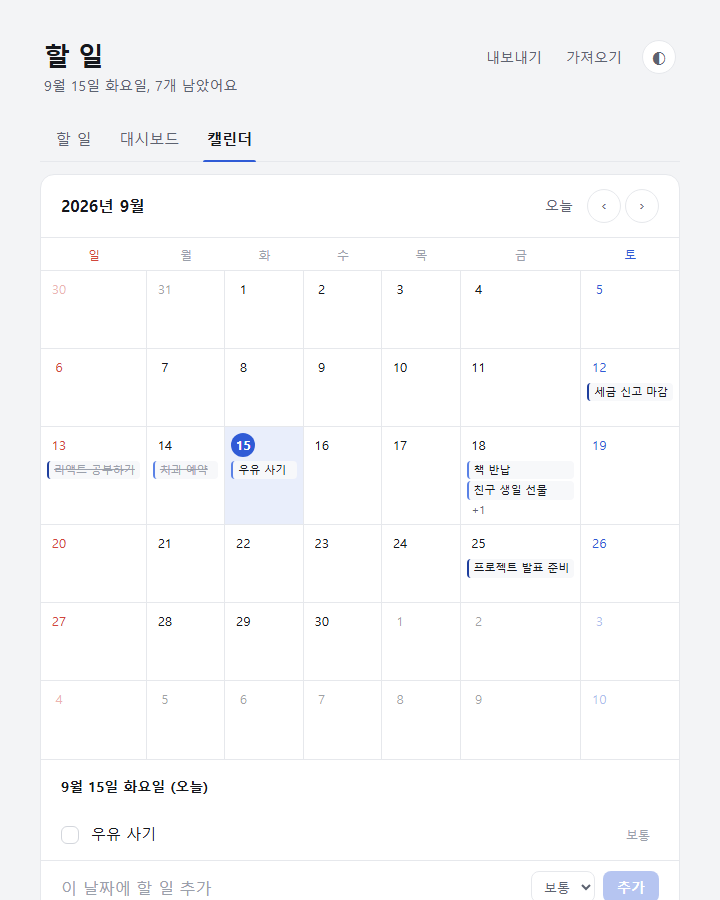
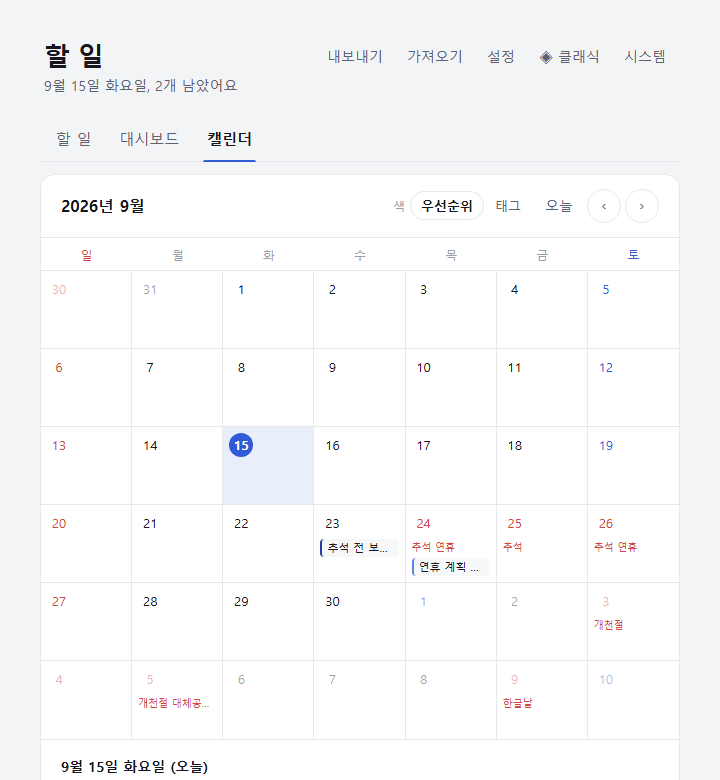
Mark Korean public holidays in the calendar
Fixed-date holidays and substitute holidays are computed; only the lunar
anchors (설날, 추석, 부처님오신날) are tabulated, for 2025-2030, since those
are the part a rule can't derive. Dates were checked against published
sources rather than recalled.

Rules encoded: 설날/추석 연휴 get a substitute only when they overlap a
Sunday; the other eligible holidays when they fall on a weekend or collide
with another holiday. 신정 and 현충일 are not national days, so they get no
substitute. 제헌절 became a public holiday again in 2026. Collisions join
their names (2028-10-03 is 추석·개천절, pushing 개천절 to 10/5).

Substitutes are placed only after every original holiday is known, in date
order, or they land on each other. Tests compare whole years (2025, 2026,
2028) against the published calendars.

Also: the add-form placeholder no longer overflows its box — it is short now,
and the #tag hint moved to the title attribute.

diff --git a/src/lib/holidays.js b/src/lib/holidays.js
@@ -1,0 +1,114 @@
+import { dayKey, addDays } from './stats';
+
+// 한국 공휴일(관공서의 공휴일에 관한 규정 기준).
+// 양력 고정일은 계산하고, 음력 기반(설날·추석·부처님오신날)만 표로 둔다.
+// 대체공휴일은 표로 박지 않고 규칙으로 계산한다 — 연도별로 적어 두면 틀리기 쉽다.
+// 임시공휴일·선거일처럼 그때그때 정해지는 날은 담지 않는다.
+
+// 음력 기반 공휴일의 양력 '당일' (2026-09-15 확인)
+const LUNAR = {
+    2025: { seollal: '2025-01-29', chuseok: '2025-10-06', buddha: '2025-05-05' },
+    2026: { seollal: '2026-02-17', chuseok: '2026-09-25', buddha: '2026-05-24' },
+    2027: { seollal: '2027-02-07', chuseok: '2027-09-15', buddha: '2027-05-13' },
+    2028: { seollal: '2028-01-27', chuseok: '2028-10-03', buddha: '2028-05-02' },
+    2029: { seollal: '2029-02-13', chuseok: '2029-09-22', buddha: '2029-05-20' },
+    2030: { seollal: '2030-02-03', chuseok: '2030-09-12', buddha: '2030-05-09' },
+};
+
+export const LUNAR_YEARS = Object.keys(LUNAR).map(Number);
+
+// 양력 고정 공휴일. sub = 대체공휴일 대상인가.
+// 신정·현충일은 국경일이 아니라 대체공휴일 대상이 아니다.
+const FIXED = [
+    { md: '01-01', name: '신정', sub: false },
+    { md: '03-01', name: '삼일절', sub: true },
+    { md: '05-05', name: '어린이날', sub: true },
+    { md: '06-06', name: '현충일', sub: false },
+    { md: '07-17', name: '제헌절', sub: true, from: 2026 }, // 2026년 공휴일로 재지정
+    { md: '08-15', name: '광복절', sub: true },
+    { md: '10-03', name: '개천절', sub: true },
+    { md: '10-09', name: '한글날', sub: true },
+    { md: '12-25', name: '성탄절', sub: true },
+];
+
+function dowOf(key) {
+    const [y, m, d] = key.split('-').map(Number);
+    return new Date(y, m - 1, d).getDay();
+}
+const isWeekend = (key) => dowOf(key) === 0 || dowOf(key) === 6;
+
+// 대체공휴일 자리: 그 날 다음의 첫 번째 '평일이면서 아직 공휴일이 아닌' 날
+function nextOpenDay(key, taken) {
+    let d = addDays(key, 1);
+    while (isWeekend(d) || taken.has(d)) d = addDays(d, 1);
+    return d;
+}
+
+// 그 해의 공휴일 전부를 { 'YYYY-MM-DD': 이름 } 으로.
+// 한 날에 둘이 겹치면 이름을 '·' 로 잇는다 (예: 추석·개천절).
+// 표에 없는 연도는 양력 고정일만 나온다.
+export function holidaysFor(year) {
+    const entries = [];
+    const blocks = []; // 설날·추석 연휴 — 일요일과 겹칠 때만 대체공휴일
+    const lunar = LUNAR[year];
+
+    if (lunar) {
+        for (const [day, label] of [[lunar.seollal, '설날'], [lunar.chuseok, '추석']]) {
+            const days = [addDays(day, -1), day, addDays(day, 1)];
+            entries.push({ key: days[0], name: `${label} 연휴`, sub: false });
+            entries.push({ key: days[1], name: label, sub: false });
+            entries.push({ key: days[2], name: `${label} 연휴`, sub: false });
+            blocks.push({ label, days });
+        }
+        entries.push({ key: lunar.buddha, name: '부처님오신날', sub: true });
+    }
+    for (const f of FIXED) {
+        if (f.from && year < f.from) continue;
+        entries.push({ key: `${year}-${f.md}`, name: f.name, sub: f.sub });
+    }
+
+    const byDay = new Map();
+    for (const e of entries) {
+        if (!byDay.has(e.key)) byDay.set(e.key, []);
+        byDay.get(e.key).push(e);
+    }
+
+    // 밀려날 공휴일 모으기 (아직 날짜는 정하지 않는다)
+    const pushed = [];
+    for (const { label, days } of blocks) {
+        if (days.some(d => dowOf(d) === 0)) pushed.push({ after: days[2], name: label });
+    }
+    for (const [key, list] of byDay) {
+        const eligible = list.filter(e => e.sub);
+        if (eligible.length === 0) continue;
+        // 주말이면 그 날 공휴일이 통째로 밀리고, 평일이면 겹친 만큼(하나는 그 날을 쓴다) 밀린다
+        const count = isWeekend(key) ? eligible.length : Math.min(list.length - 1, eligible.length);
+        for (let i = 0; i < count; i++) {
+            pushed.push({ after: key, name: eligible[eligible.length - 1 - i].name });
+        }
+    }
+
+    // 날짜 순으로 자리를 잡아야 서로 같은 날에 겹치지 않는다
+    const taken = new Set(byDay.keys());
+    pushed.sort((a, b) => a.after.localeCompare(b.after));
+    for (const { after, name } of pushed) {
+        const key = nextOpenDay(after, taken);
+        taken.add(key);
+        byDay.set(key, [{ key, name: `${name} 대체공휴일`, sub: false }]);
+    }
+
+    return new Map([...byDay]
+        .sort((a, b) => a[0].localeCompare(b[0]))
+        .map(([key, list]) => [key, list.map(e => e.name).join('·')]));
+}
+
+// 달력이 보는 범위(여러 해에 걸친다)를 한 번에
+export function holidaysForRange(startKey, endKey) {
+    const map = new Map();
+    for (let y = Number(startKey.slice(0, 4)); y <= Number(endKey.slice(0, 4)); y++) {
+        for (const [key, name] of holidaysFor(y)) map.set(key, name);
+    }
+    return map;
+}
+
+export const todayHoliday = (now = Date.now()) => holidaysFor(new Date(now).getFullYear()).get(dayKey(now));

diff --git a/src/lib/holidays.test.js b/src/lib/holidays.test.js
@@ -1,0 +1,93 @@
+import { test, expect } from 'vitest';
+import { holidaysFor, holidaysForRange } from './holidays';
+
+// 실제 공표된 공휴일과 맞는지 — 대체공휴일까지 포함해 연도별로 대조한다.
+const expected = {
+    2025: {
+        '2025-01-01': '신정',
+        '2025-01-28': '설날 연휴', '2025-01-29': '설날', '2025-01-30': '설날 연휴',
+        '2025-03-01': '삼일절', '2025-03-03': '삼일절 대체공휴일',
+        '2025-05-05': '부처님오신날·어린이날', '2025-05-06': '어린이날 대체공휴일',
+        '2025-06-06': '현충일',
+        '2025-08-15': '광복절',
+        '2025-10-03': '개천절',
+        '2025-10-05': '추석 연휴', '2025-10-06': '추석', '2025-10-07': '추석 연휴',
+        '2025-10-08': '추석 대체공휴일',
+        '2025-10-09': '한글날',
+        '2025-12-25': '성탄절',
+    },
+    2026: {
+        '2026-01-01': '신정',
+        '2026-02-16': '설날 연휴', '2026-02-17': '설날', '2026-02-18': '설날 연휴',
+        '2026-03-01': '삼일절', '2026-03-02': '삼일절 대체공휴일',
+        '2026-05-05': '어린이날',
+        '2026-05-24': '부처님오신날', '2026-05-25': '부처님오신날 대체공휴일',
+        '2026-06-06': '현충일',
+        '2026-07-17': '제헌절',
+        '2026-08-15': '광복절', '2026-08-17': '광복절 대체공휴일',
+        '2026-09-24': '추석 연휴', '2026-09-25': '추석', '2026-09-26': '추석 연휴',
+        '2026-10-03': '개천절', '2026-10-05': '개천절 대체공휴일',
+        '2026-10-09': '한글날',
+        '2026-12-25': '성탄절',
+    },
+    2028: {
+        '2028-01-01': '신정',
+        '2028-01-26': '설날 연휴', '2028-01-27': '설날', '2028-01-28': '설날 연휴',
+        '2028-03-01': '삼일절',
+        '2028-05-02': '부처님오신날',
+        '2028-05-05': '어린이날',
+        '2028-06-06': '현충일',
+        '2028-07-17': '제헌절',
+        '2028-08-15': '광복절',
+        '2028-10-02': '추석 연휴', '2028-10-03': '추석·개천절', '2028-10-04': '추석 연휴',
+        '2028-10-05': '개천절 대체공휴일',
+        '2028-10-09': '한글날',
+        '2028-12-25': '성탄절',
+    },
+};
+
+for (const [year, days] of Object.entries(expected)) {
+    test(`${year}년 공휴일이 공표된 날짜와 같다`, () => {
+        expect(Object.fromEntries(holidaysFor(Number(year)))).toEqual(days);
+    });
+}
+
+test('2025년 어린이날은 부처님오신날과 겹쳐서 대체공휴일이 하루 생긴다', () => {
+    const h = holidaysFor(2025);
+    expect(h.get('2025-05-05')).toBe('부처님오신날·어린이날'); // 겹친 날은 이름을 이어 붙인다
+    expect(h.get('2025-05-06')).toBe('어린이날 대체공휴일');
+    expect([...h.values()].filter(v => v.includes('대체공휴일')).length).toBe(3); // 삼일절·어린이날·추석
+});
+
+test('2028년 개천절은 추석 당일과 겹쳐서, 연휴를 건너뛴 다음 평일이 대체공휴일이 된다', () => {
+    expect(holidaysFor(2028).get('2028-10-05')).toBe('개천절 대체공휴일');
+});
+
+test('설날·추석 연휴는 토요일과 겹쳐도 대체공휴일이 없다 (일요일만 해당)', () => {
+    // 2026 추석 연휴 9/24(목)~9/26(토) — 토요일이 끼지만 대체공휴일 없음
+    const h = holidaysFor(2026);
+    expect([...h.values()].filter(v => v.startsWith('추석 대체'))).toEqual([]);
+});
+
+test('신정과 현충일은 주말과 겹쳐도 대체공휴일이 없다', () => {
+    // 2028-01-01 은 토요일, 2027-06-06 은 일요일
+    expect(holidaysFor(2028).get('2028-01-03')).toBeUndefined();
+    expect([...holidaysFor(2027).values()].filter(v => v.includes('현충일 대체'))).toEqual([]);
+});
+
+test('제헌절은 2026년부터만 공휴일이다', () => {
+    expect(holidaysFor(2025).get('2025-07-17')).toBeUndefined();
+    expect(holidaysFor(2026).get('2026-07-17')).toBe('제헌절');
+});
+
+test('표에 없는 연도는 양력 고정일만 나온다', () => {
+    const h = holidaysFor(2035);
+    expect(h.get('2035-01-01')).toBe('신정');
+    expect([...h.values()].some(v => v.includes('설날'))).toBe(false);
+});
+
+test('holidaysForRange는 해를 넘겨도 모은다', () => {
+    const h = holidaysForRange('2026-12-01', '2027-01-31');
+    expect(h.get('2026-12-25')).toBe('성탄절');
+    expect(h.get('2027-01-01')).toBe('신정');
+});

diff --git a/src/components/Calendar.jsx b/src/components/Calendar.jsx
@@ -1,6 +1,7 @@
 import { useState } from 'react';
 import { PRIORITIES, PRIORITY_LABEL, priorityOf, sortByPriority } from '../reducers/todoReducer';
 import { dayKey, monthCells } from '../lib/stats';
+import { holidaysForRange } from '../lib/holidays';
 import { useNow } from '../hooks/useNow';
 import { tagHref } from '../lib/tags';
 import { useTagClass } from '../hooks/useTagColors';
@@ -39,6 +40,7 @@ function Calendar({ todos, dispatch, onOpenTodo, colorBy, onColorByChange }) {
         (byDay[todo.dueDate] ??= []).push(todo);
     }
     const cells = monthCells(view.year, view.month);
+    const holidays = holidaysForRange(cells[0].key, cells.at(-1).key); // 달력 칸이 해를 넘길 수 있다
     const dayTodos = sortByPriority(byDay[selected] ?? []);
     const [sy, sm, sd] = selected.split('-').map(Number);
     const noDueCount = todos.filter(todo => !todo.completed && !todo.dueDate).length;
@@ -74,15 +76,18 @@ function Calendar({ todos, dispatch, onOpenTodo, colorBy, onColorByChange }) {
                 {DOW.map((d, i) => <div key={d} className={`cal-dow dow-${i}`} aria-hidden="true">{d}</div>)}
                 {cells.map(cell => {
                     const items = byDay[cell.key] ?? [];
+                    const holiday = holidays.get(cell.key);
                     const cls = ['cal-cell', `dow-${cell.dow}`];
                     if (!cell.inMonth) cls.push('out');
+                    if (holiday) cls.push('holiday');
                     if (cell.key === todayKey) cls.push('today');
                     if (cell.key === selected) cls.push('selected');
                     return (
                         <button type="button" key={cell.key} className={cls.join(' ')}
                             aria-pressed={cell.key === selected} onClick={() => setSelected(cell.key)}
-                            aria-label={`${cell.key} ${DOW[cell.dow]}요일, 할 일 ${items.length}개`}>
+                            aria-label={`${cell.key} ${DOW[cell.dow]}요일${holiday ? `, ${holiday}` : ''}, 할 일 ${items.length}개`}>
                             <span className="cal-date">{cell.date}</span>
+                            {holiday && <span className="cal-holiday" title={holiday}>{holiday}</span>}
                             {items.length > 0 && (
                                 <span className="cal-items">
                                     {items.slice(0, MAX_CHIPS).map(todo => (
@@ -103,6 +108,7 @@ function Calendar({ todos, dispatch, onOpenTodo, colorBy, onColorByChange }) {
                 <div className="cal-day-head">
                     <h3 id="cal-day-title" className="section-title">
                         {sm}월 {sd}일 {DOW[new Date(sy, sm - 1, sd).getDay()]}요일{selected === todayKey ? ' (오늘)' : ''}
+                        {holidays.get(selected) && <> <span className="cal-day-holiday">{holidays.get(selected)}</span></>}
                     </h3>
                     {dayTodos.length > 0 && (
                         <a href={`#todos?due=${selected}`} className="link-btn">목록에서 보기</a>

diff --git a/src/App.css b/src/App.css
@@ -1081,6 +1081,26 @@ button.todo-item-text:hover {
   font-variant-numeric: tabular-nums;
 }
 
+/* 공휴일 — 요일 색(토 파랑)보다 뒤에 와야 이긴다. 오늘 표시가 그보다 더 우선이다 */
+.cal-cell.holiday .cal-date {
+  color: var(--high);
+}
+
+.cal-holiday {
+  overflow: hidden;
+  text-overflow: ellipsis;
+  white-space: nowrap;
+  font-size: 10px;
+  line-height: 1.5;
+  color: var(--high);
+}
+
+.cal-day-holiday {
+  margin-left: 8px;
+  color: var(--high);
+  font-weight: 600;
+}
+
 .cal-cell.today .cal-date {
   background: var(--accent);
   color: var(--accent-ink);
@@ -1147,6 +1167,10 @@ button.todo-item-text:hover {
   .cal-chip,
   .cal-more {
     display: none;
+  }
+  /* 좁은 화면에서도 공휴일 이름은 남긴다 — 칸에서 가장 중요한 정보다 */
+  .cal-holiday {
+    font-size: 9px;
   }
   .cal-dot {
     display: inline-flex;

diff --git a/claude-memory/project_todo_app.md b/claude-memory/project_todo_app.md
@@ -87,3 +87,12 @@ Building a Todo List app in `c:\eduReact` (Vite + React 19 + JS) as a React lear
 - 줄 안 우선순위 목록은 아래 공간이 150px 남아도 Chrome 이 **위로** 연다. `position-area`/`position-try-fallbacks` 로도 안 바뀜 — 브라우저 배치라 그대로 둠.
 
 **헤드리스로 네이티브 위젯 검증하는 법 (중요):** `showPicker()` 는 사용자 조작이 필요해 JS 로는 못 연다. **CDP 를 쓰면 진짜 클릭을 보낼 수 있다** — Chrome 을 `--remote-debugging-port=9222` 로 띄우고, Node 22 의 내장 `WebSocket` 으로 `/json` → `webSocketDebuggerUrl` 접속 → `Input.dispatchMouseEvent`(mousePressed/mouseReleased) → `Runtime.evaluate` 로 측정 → `Page.captureScreenshot`. 의존성 0. 스크래치패드의 `cdp.mjs`/`cdp3.mjs`/`try.mjs` 참고(세션 끝나면 사라짐). 다음 실행 전 Escape 를 보내 이전 팝오버를 닫을 것 — 안 그러면 클릭이 토글로 먹혀 닫힌다.
+
+**2026-09-15 밤 11: 한국 공휴일 + placeholder 잘림.**
+- `src/lib/holidays.js` — 양력 고정일과 **대체공휴일은 규칙으로 계산**, 음력 기준일(설날/추석/부처님오신날)만 2025~2030 표. 웹 검색으로 날짜를 확인함(기억에 의존하지 않음). 캘린더 칸에 빨간 날짜 + 이름, 선택일 제목에도 표시.
+- 규칙: 설날·추석 연휴는 **일요일**과 겹칠 때만 대체(토요일 제외), 나머지 대상은 토·일이거나 **다른 공휴일과 겹칠 때**. 신정·현충일은 국경일이 아니라 **대체 대상 아님**. **제헌절은 2026년부터 공휴일로 재지정**(2026-04-28 국무회의). 겹친 날은 이름을 '·'로 이음(2028-10-03 = 추석·개천절 → 개천절 대체 10/5).
+- 구현 함정: 날짜별로 묶어서 계산해야 한다. 처음에 순서대로 put 하니 2025 어린이날+부처님오신날, 2028 추석+개천절이 틀렸다. 대체공휴일은 **원래 공휴일을 다 넣은 뒤, 날짜 오름차순으로** 자리를 잡아야 서로 겹치지 않는다.
+- placeholder "새 할 일 — 제목을 입력하고 Enter (끝에 #태그 가능)" 가 칸 폭보다 길어 잘렸다 → "할 일을 입력하고 Enter" 로 줄이고 #태그 설명은 `title` 로.
+- 테스트 49개.
+
+**날짜 같은 사실은 검색으로 확인할 것:** 음력 공휴일은 기억이 틀린다. 실제로 한 출처가 2028 부처님오신날을 5/5 로 줬는데 음력 계산상 5/2 가 맞았고, 다른 출처로 5/2 확인됨. 두 출처 이상 대조할 것.

diff --git a/README.md b/README.md
@@ -36,6 +36,7 @@
 - 월 단위로 마감일별 할 일 표시, 날짜를 누르면 그 날 목록과 바로 추가 (목록에 태그·노트 개수도 함께)
 - 선택한 날의 "목록에서 보기", 헤더의 "마감 없음 N" → 할 일 목록으로
 - 칩 색을 **우선순위 / 태그** 중 선택
+- **한국 공휴일 표시** — 날짜가 빨갛게, 칸에 이름이 뜹니다(설날·추석 연휴, 부처님오신날, 대체공휴일 포함)
 - 오늘로 이동, 이전/다음 달
 
 **저장과 이동**
@@ -93,6 +94,8 @@ src/
   lib/
     stats.js                날짜 키, 날짜별 완료 수, 우선순위 집계, 마감 분류, 달력 칸 생성
     stats.test.js
+    holidays.js             한국 공휴일 — 양력 고정일과 대체공휴일은 계산, 음력 기준일만 표
+    holidays.test.js
     linkify.js              노트의 URL·r번호를 링크 조각으로
     linkify.test.js
     tags.js                 태그 색 배정(이름 해시 → 4색), 태그 링크 주소
@@ -128,6 +131,16 @@ drills/                     학습용 순수 JS 연습 문제 (node drills/01-de
 ```
 
 `priority`·`dueDate`·`completedAt`·`tags`·`subtasks`·`notes`는 없을 수 있습니다(예전 데이터). 없으면 보통 / 마감 없음 / 시각 모름 / 없음으로 봅니다. `notes[].category`는 `backend` · `frontend` · `memo`.
+
+### 공휴일
+
+양력 고정일(신정·삼일절·어린이날·현충일·제헌절·광복절·개천절·한글날·성탄절)과 **대체공휴일은 규칙으로 계산**합니다.
+연도별로 적어 두면 틀리기 쉬워서, 바뀌지 않는 것만 표로 뒀습니다 — 음력 기준일(설날·추석·부처님오신날)이며 **2025~2030년** 범위입니다.
+그 밖의 해는 양력 고정일만 나옵니다. 임시공휴일·선거일처럼 그때그때 정해지는 날은 담지 않습니다.
+
+대체공휴일 규칙: 설날·추석 연휴는 **일요일**과 겹칠 때만, 나머지 대상 공휴일은 토·일이거나 다른 공휴일과 겹칠 때 다음 첫 평일로.
+신정과 현충일은 국경일이 아니라 대체공휴일 대상이 아닙니다. 제헌절은 2026년에 공휴일로 재지정되었습니다.
+`holidays.test.js`가 2025·2026·2028년 전체를 공표된 날짜와 대조합니다.
 
 ## 배운 것
 
